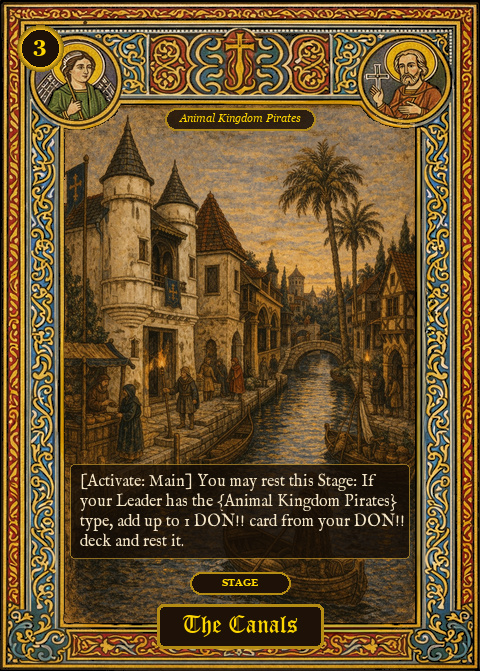
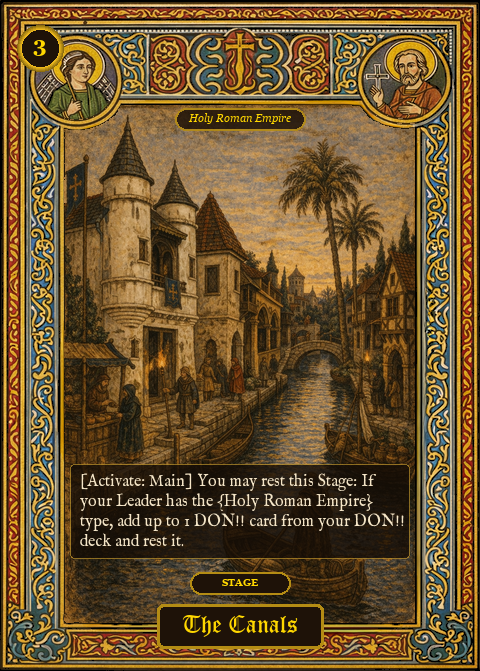
Replace Animal Kingdom → Holy Roman Empire across repo
- server.js ST04-017 ability: {Animal Kingdom Pirates} → {Holy Roman Empire}
- deck-editor.html: ST04 deck comment + preset key renamed
- ST04-017.png: regenerated so the baked banner and ability text show
  Holy Roman Empire (via build_st04_017.py)

Changed region(s): [[0.4688, 0.7154, 0.8125, 0.775], [0.3438, 0.149, 0.6562, 0.2086]]

diff --git a/deck-editor.html b/deck-editor.html
@@ -523,7 +523,7 @@
       { id:'ST03-016', name:'Siege of Londinium', type:'EVENT', color:'Blue', power:0, cost:2, counter:0, imgExt:'png', ability:"[Counter] Return up to 1 Character with a cost of 3 or less to the owner's hand. [Trigger] Activate this card's [Counter] effect." },
       { id:'ST03-017', name:'Leave Me To My Studies', type:'EVENT', color:'Blue', power:0, cost:2, counter:0, imgExt:'png', ability:"[Counter] Up to 1 of your Leader or Character cards gains +4000 power during this battle. Then, draw 1 card if you have 3 or less cards in your hand." },
 
-      // ST04 - Animal Kingdom (Purple)
+      // ST04 - Holy Roman Empire (Purple)
       { id:'ST04-001', name:'Kaido', type:'LEADER', color:'Purple', attribute:'Strike', power:5000, life:5, cost:0, counter:0, imgExt:'png', ability:"[Activate: Main] [Once Per Turn] You may trash 1 of your Characters: Add up to 1 DON!! card from your DON!! deck and rest it." },
       { id:'ST04-002', name:'Ulti', type:'CHARACTER', color:'Purple', attribute:'Strike', power:2000, cost:2, counter:1000, imgExt:'png', ability:"" },
       { id:'ST04-003', name:'Kaido', type:'CHARACTER', color:'Purple', attribute:'Strike', power:8000, cost:7, counter:0, imgExt:'png', ability:"[On Play] Add up to 1 DON!! card from your DON!! deck and rest it." },
@@ -681,7 +681,7 @@
       'ST01 - Strawhat': '1xST01-001\n4xST01-002\n4xST01-003\n4xST01-004\n4xST01-005\n4xST01-006\n4xST01-007\n4xST01-008\n4xST01-009\n4xST01-010\n2xST01-011\n2xST01-012\n2xST01-013\n2xST01-014\n2xST01-015\n2xST01-016\n2xST01-017',
       'ST02 - Worst Generation': '1xST02-001\n4xST02-002\n2xST02-003\n4xST02-004\n2xST02-005\n4xST02-006\n4xST02-007\n4xST02-008\n2xST02-009\n2xST02-010\n4xST02-011\n4xST02-012\n2xST02-013\n4xST02-014\n2xST02-015\n4xST02-016\n2xST02-017',
       'ST03 - Seven Warlords': '1xST03-001\n4xST03-002\n2xST03-003\n2xST03-004\n2xST03-005\n4xST03-006\n2xST03-007\n4xST03-008\n2xST03-009\n4xST03-010\n4xST03-011\n4xST03-012\n4xST03-013\n2xST03-014\n4xST03-015\n4xST03-016\n2xST03-017',
-      'ST04 - Animal Kingdom': '1xST04-001\n4xST04-002\n2xST04-003\n2xST04-004\n2xST04-005\n4xST04-006\n4xST04-007\n2xST04-008\n4xST04-009\n2xST04-010\n4xST04-011\n4xST04-012\n4xST04-013\n2xST04-014\n2xST04-015\n4xST04-016\n4xST04-017',
+      'ST04 - Holy Roman Empire': '1xST04-001\n4xST04-002\n2xST04-003\n2xST04-004\n2xST04-005\n4xST04-006\n4xST04-007\n2xST04-008\n4xST04-009\n2xST04-010\n4xST04-011\n4xST04-012\n4xST04-013\n2xST04-014\n2xST04-015\n4xST04-016\n4xST04-017',
       'Anna of Brittany': '1xST03-001\n4xOP01-079\n4xOP01-077\n4xOP01-083\n4xOP01-085\n3xST03-014\n4xOP01-084\n4xST03-003\n3xOP01-067\n4xST03-015\n4xST03-016\n4xST03-017\n4xOP01-087\n4xOP01-090',
       'Crocodile Duchess of Brittany': '1xST03-001\n4xOP01-079\n4xOP01-077\n4xOP01-083\n4xOP01-085\n3xST03-014\n4xOP01-084\n4xST03-003\n3xOP01-067\n4xST03-015\n4xST03-016\n4xST03-017\n4xOP01-087\n4xOP01-090',
       'Kaido Ramp': '1xST04-001\n4xOP01-100\n4xST04-010\n4xOP01-101\n4xST04-008\n4xST04-002\n4xST04-012\n4xST04-005\n2xST04-004\n2xOP01-096\n2xST04-003\n2xOP01-094\n4xST04-016\n1xOP01-117\n3xOP01-119\n2xST04-015\n4xST04-017',

diff --git a/server.js b/server.js
@@ -433,7 +433,7 @@ const CARD_DB = [
 
   { id:'ST04-017', name:'The Canals', type:'STAGE', color:'Purple', attribute:'',
     power:0, cost:3, counter:0, image:IMG('ST04','ST04-017','png'),
-    ability:"[Activate: Main] You may rest this Stage: If your Leader has the {Animal Kingdom Pirates} type, add up to 1 DON!! card from your DON!! deck and rest it." },
+    ability:"[Activate: Main] You may rest this Stage: If your Leader has the {Holy Roman Empire} type, add up to 1 DON!! card from your DON!! deck and rest it." },
 ];
 
 // ─── PRESET DECKS ───
